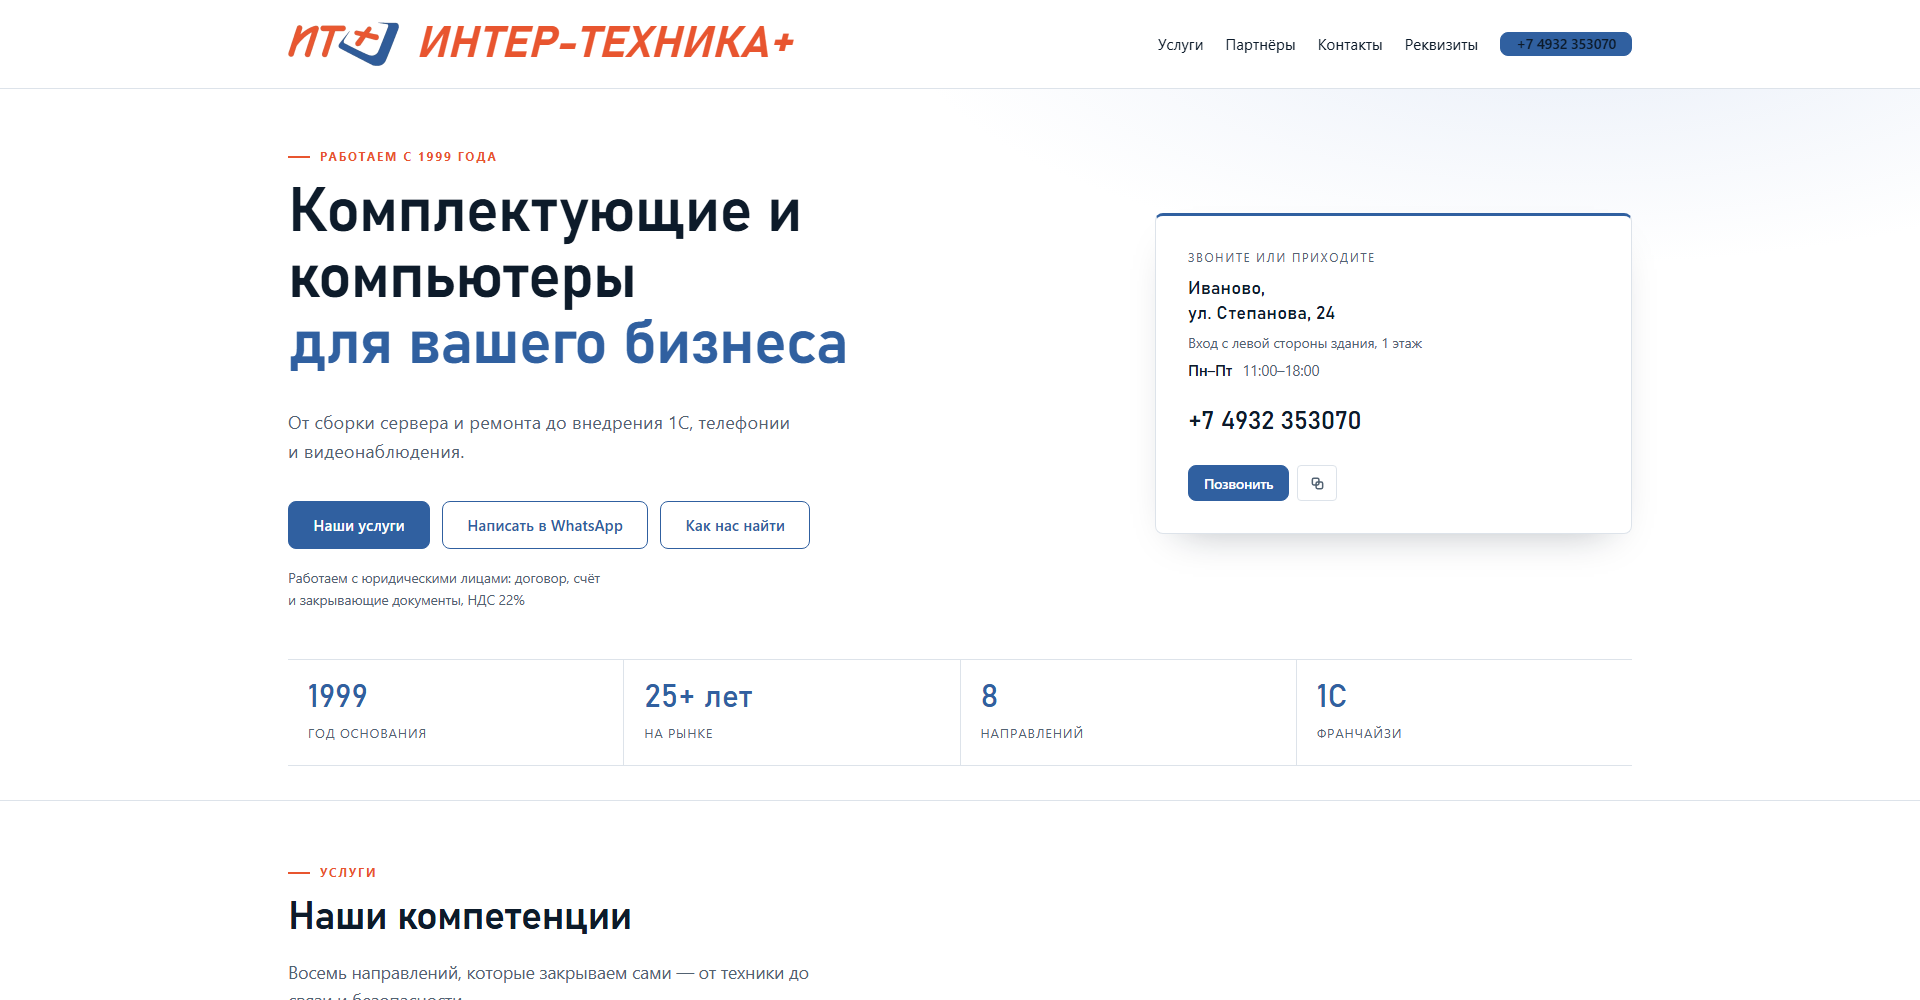
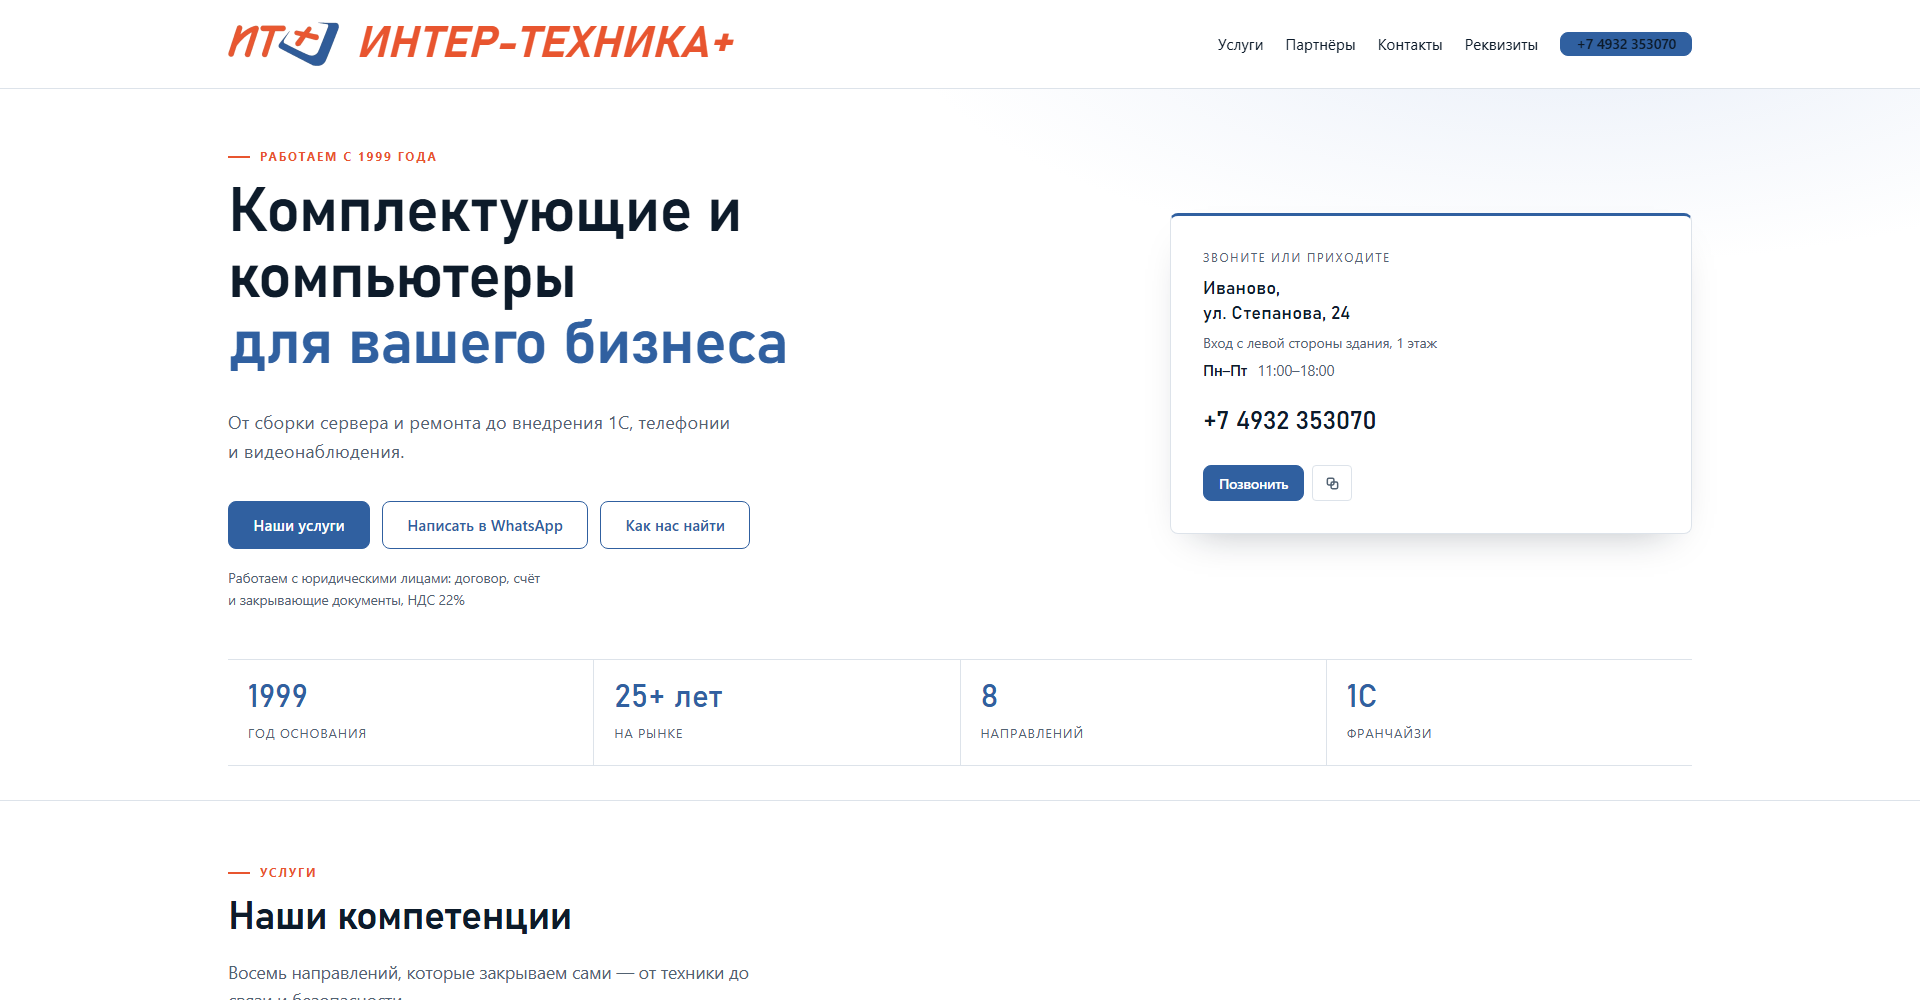
Контейнер до 1560px: поля 180px на 1920

diff --git a/index.html b/index.html
@@ -24,7 +24,7 @@
 
   <link rel="icon" href="assets/icon.png" type="image/png">
   <link rel="apple-touch-icon" href="assets/icon.png">
-  <link rel="stylesheet" href="assets/style.css?v=20261143">
+  <link rel="stylesheet" href="assets/style.css?v=20261144">
 
   <script type="application/ld+json">
   {
@@ -74,7 +74,7 @@
   <header class="site-header">
     <div class="container header-inner">
       <a class="brand" href="#top" aria-label="Интер-Техника-Плюс — на главную">
-        <img class="brand-logo" src="assets/logo.png?v=20261143" alt="Интер-Техника-Плюс" width="112" height="44">
+        <img class="brand-logo" src="assets/logo.png?v=20261144" alt="Интер-Техника-Плюс" width="112" height="44">
         <span class="brand-name">Интер-Техника<span class="brand-plus">+</span></span>
       </a>
 
@@ -394,7 +394,7 @@
     <a class="btn btn--ghost" href="wa.html" target="_blank" rel="noopener">Написать</a>
   </div>
 
-  <script src="assets/app.js?v=20261143" defer></script>
-  <script src="assets/map.js?v=20261143" defer></script>
+  <script src="assets/app.js?v=20261144" defer></script>
+  <script src="assets/map.js?v=20261144" defer></script>
 </body>
 </html>

diff --git a/requisites.html b/requisites.html
@@ -8,13 +8,13 @@
   <link rel="canonical" href="https://ivu.ru/requisites.html">
   <link rel="icon" href="assets/icon.png" type="image/png">
   <link rel="apple-touch-icon" href="assets/icon.png">
-  <link rel="stylesheet" href="assets/style.css?v=20261143">
+  <link rel="stylesheet" href="assets/style.css?v=20261144">
 </head>
 <body>
   <header class="site-header">
     <div class="container header-inner">
       <a class="brand" href="index.html" aria-label="Интер-Техника-Плюс — на главную">
-        <img class="brand-logo" src="assets/logo.png?v=20261143" alt="Интер-Техника-Плюс" width="112" height="44">
+        <img class="brand-logo" src="assets/logo.png?v=20261144" alt="Интер-Техника-Плюс" width="112" height="44">
         <span class="brand-name">Интер-Техника<span class="brand-plus">+</span></span>
       </a>
       <button class="nav-toggle" type="button" aria-expanded="false" aria-controls="nav">
@@ -134,6 +134,6 @@
     </div>
   </footer>
 
-  <script src="assets/app.js?v=20261143" defer></script>
+  <script src="assets/app.js?v=20261144" defer></script>
 </body>
 </html>

diff --git a/privacy.html b/privacy.html
@@ -8,13 +8,13 @@
   <meta name="robots" content="noindex, follow">
   <link rel="icon" href="assets/icon.png" type="image/png">
   <link rel="apple-touch-icon" href="assets/icon.png">
-  <link rel="stylesheet" href="assets/style.css?v=20261143">
+  <link rel="stylesheet" href="assets/style.css?v=20261144">
 </head>
 <body>
   <header class="site-header">
     <div class="container header-inner">
       <a class="brand" href="index.html" aria-label="Интер-Техника-Плюс — на главную">
-        <img class="brand-logo" src="assets/logo.png?v=20261143" alt="Интер-Техника-Плюс" width="112" height="44">
+        <img class="brand-logo" src="assets/logo.png?v=20261144" alt="Интер-Техника-Плюс" width="112" height="44">
         <span class="brand-name">Интер-Техника<span class="brand-plus">+</span></span>
       </a>
       <button class="nav-toggle" type="button" aria-expanded="false" aria-controls="nav">
@@ -102,6 +102,6 @@
     </div>
   </footer>
 
-  <script src="assets/app.js?v=20261143" defer></script>
+  <script src="assets/app.js?v=20261144" defer></script>
 </body>
 </html>

diff --git a/404.html b/404.html
@@ -7,13 +7,13 @@
   <meta name="robots" content="noindex">
   <link rel="icon" href="assets/icon.png" type="image/png">
   <link rel="apple-touch-icon" href="assets/icon.png">
-  <link rel="stylesheet" href="assets/style.css?v=20261143">
+  <link rel="stylesheet" href="assets/style.css?v=20261144">
 </head>
 <body>
   <header class="site-header">
     <div class="container header-inner">
       <a class="brand" href="index.html" aria-label="Интер-Техника-Плюс — на главную">
-        <img class="brand-logo" src="assets/logo.png?v=20261143" alt="Интер-Техника-Плюс" width="112" height="44">
+        <img class="brand-logo" src="assets/logo.png?v=20261144" alt="Интер-Техника-Плюс" width="112" height="44">
         <span class="brand-name">Интер-Техника<span class="brand-plus">+</span></span>
       </a>
       <nav class="nav" aria-label="Основная навигация">
@@ -47,6 +47,6 @@
     </div>
   </footer>
 
-  <script src="assets/app.js?v=20261143" defer></script>
+  <script src="assets/app.js?v=20261144" defer></script>
 </body>
 </html>

diff --git a/assets/style.css b/assets/style.css
@@ -24,7 +24,7 @@
   --font-body: "Segoe UI", system-ui, -apple-system, Roboto, Arial, sans-serif;
 
   /* Сетка */
-  --wrap: clamp(1160px, 88vw, 1440px);
+  --wrap: clamp(1160px, 88vw, 1560px);
   --gutter: clamp(20px, 5vw, 48px);
   --radius: 8px;
   --shadow: 0 18px 40px -24px rgba(13, 27, 42, .35);
